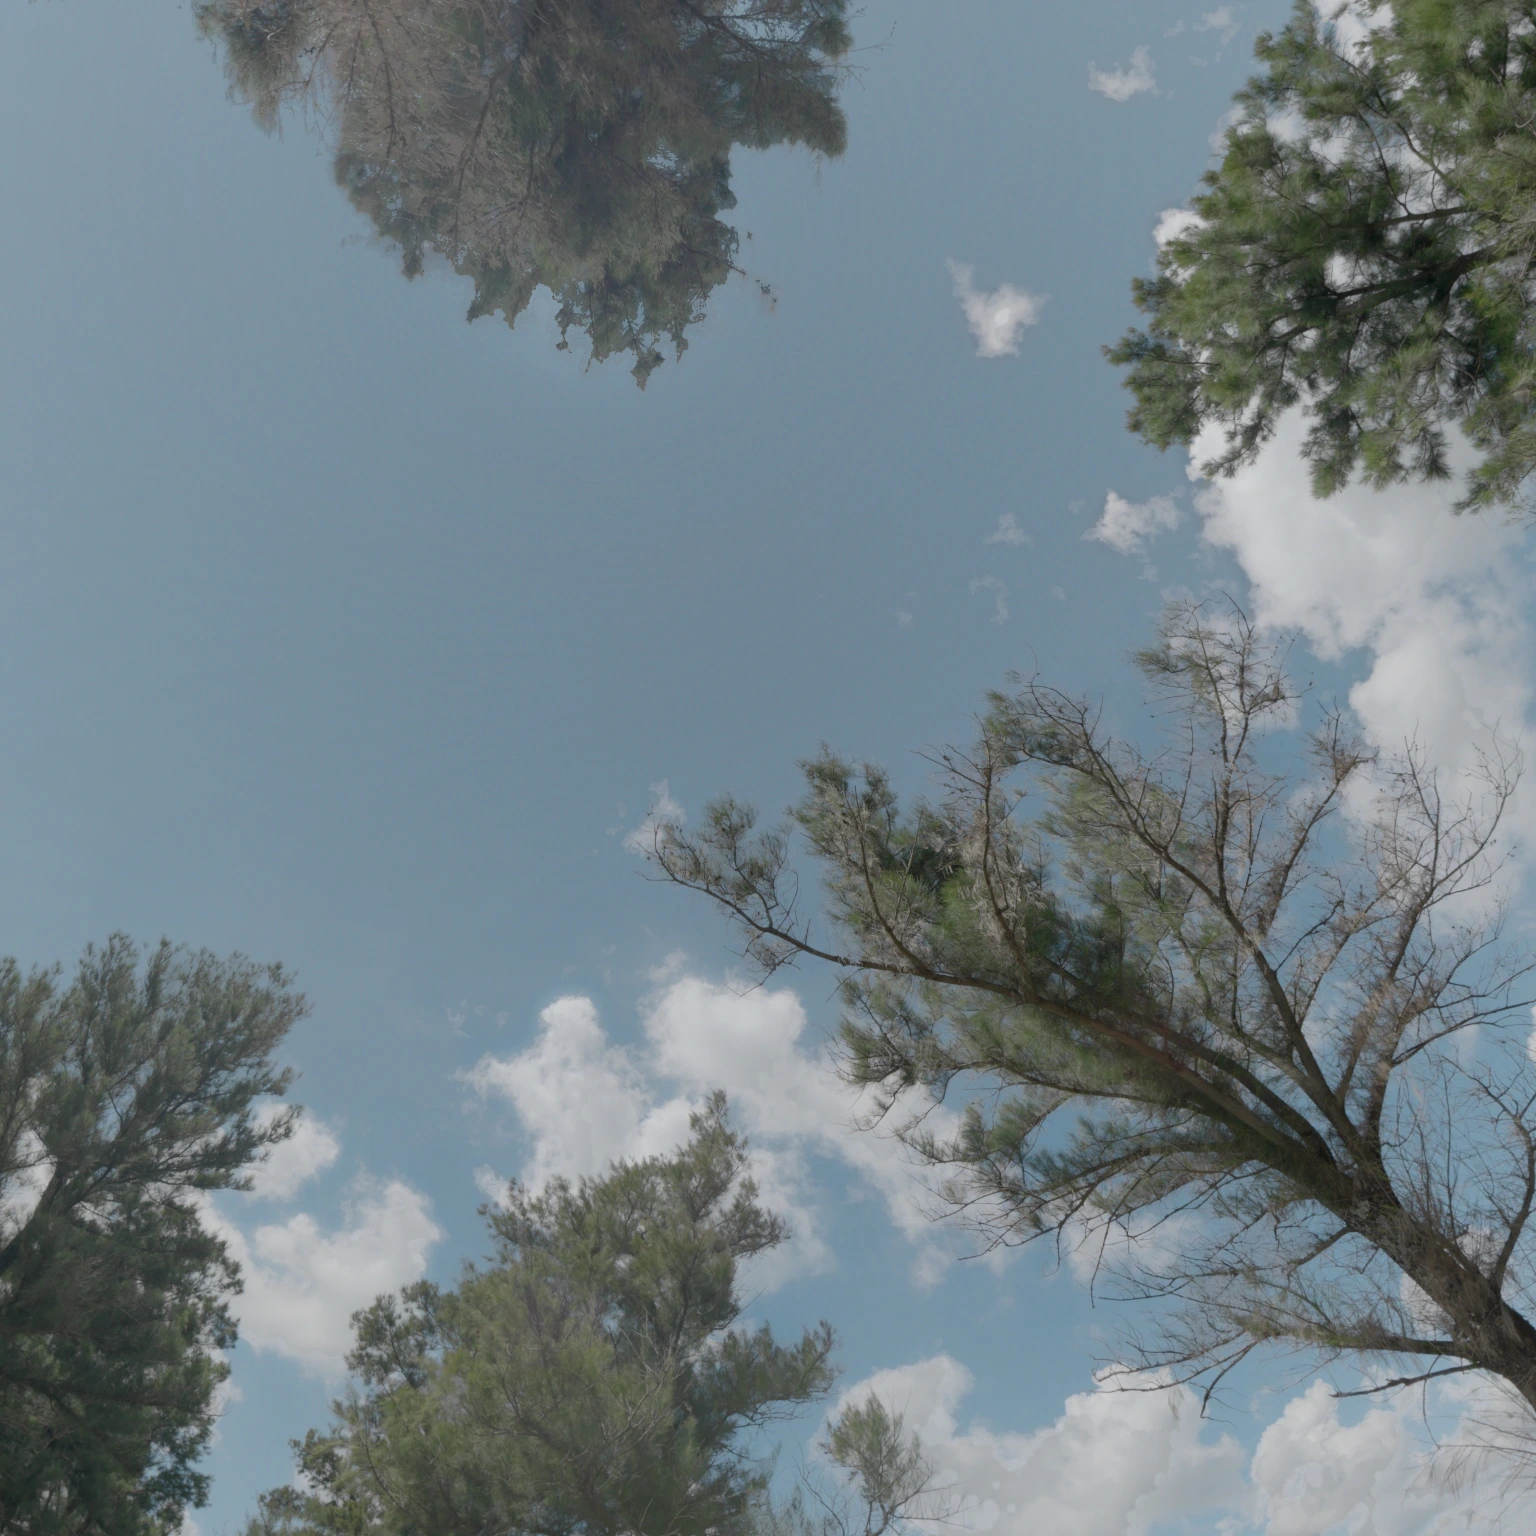
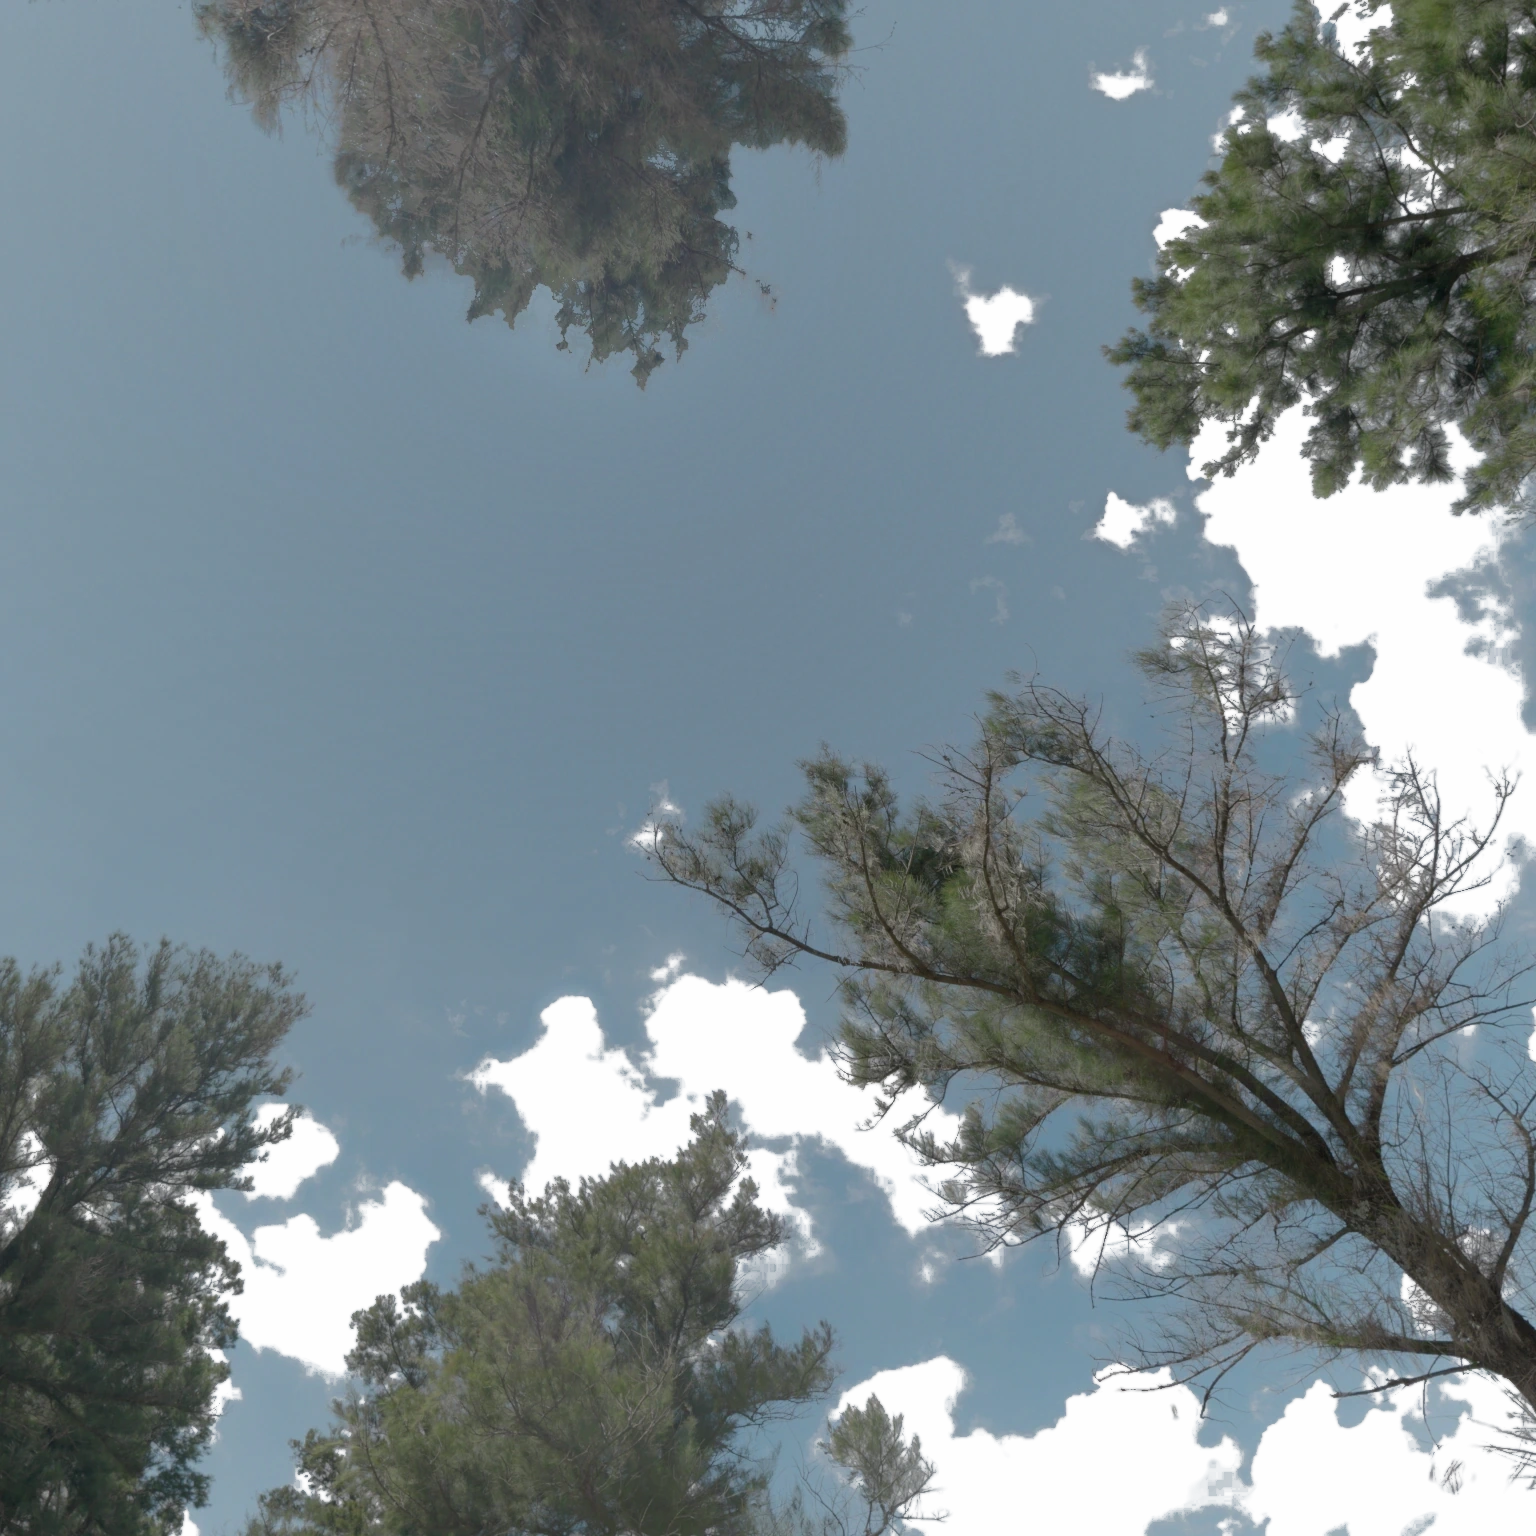
Lab: climb overexpose round 3
Claude-Session: https://claude.ai/code/session_01RqENhngNCzDFmJWDZueXGV

diff --git a/src/app/lab/overexpose/overexposeEngine.js b/src/app/lab/overexpose/overexposeEngine.js
@@ -53,6 +53,24 @@ export const FILM = {
   skyHiKeep: 0.5, // share of the highlight desaturation the sky is spared
   skyHiHue: 1.5, // extra blue compensation on lifted sky
   skyCap: 0.05, // how far under the paper white the sky's blue stays
+  // Holding the sky back. Cumulus are several times brighter than the blue
+  // around them, but once both ride the paper's shoulder they print at the
+  // same height (the sky's blue at the cap, ~236, the clouds 230-238) and part
+  // only by being less blue: milky paper cut-outs on a flat powder wash. So, as
+  // a printer burns in a sky, everything but the cloud is held back before the
+  // negative by skyHold of every stop of overexposure (about -0.9 EV at +1.67),
+  // keyed on the bake's cloud mask (scene.webp's alpha, relight.py), so a
+  // cloud's blue-lit underside is not mistaken for sky and a crown's edge is
+  // held with the sky behind it, never left as a pale outline. The dark
+  // needles take skyHoldNeedle of it. The scan's extra blue depth eases off on the held sky
+  // (to skyHoldDepth by skyHoldFull), or it would pour the held light straight
+  // back into the blue channel and pin it at the cap again. So the sky's
+  // brightest channel stays near 200-215, still deepening towards the zenith,
+  // while the clouds keep climbing the shoulder above it. 0 EV is untouched.
+  skyHold: 0.55,
+  skyHoldDepth: 1.1,
+  skyHoldNeedle: 0.35, // share of the hold the dark needles take, so the shadows still open up
+  skyHoldFull: 1.67,
 
   hiWarm: 0.025,
   bloom: 0.08,
@@ -71,8 +89,8 @@ precision highp float;
 uniform sampler2D uLog; uniform vec2 uSize;
 out vec4 o;
 void main(){
-  vec3 c = texelFetch(uLog, ivec2(gl_FragCoord.xy), 0).rgb;
-  o = vec4(exp2(c * ${(HI - LO).toFixed(4)} + ${LO.toFixed(4)}), 1.0);
+  vec4 c = texelFetch(uLog, ivec2(gl_FragCoord.xy), 0);
+  o = vec4(exp2(c.rgb * ${(HI - LO).toFixed(4)} + ${LO.toFixed(4)}), c.a); // alpha: 1 - cloud share
 }`;
 
 const FS = `#version 300 es
@@ -86,7 +104,7 @@ uniform vec3 uGamma; uniform vec3 uShoulder; uniform float uToe; uniform float u
 uniform vec3 uGref;         // negative density of the printer-light grey
 uniform vec3 uPk; uniform vec3 uPx0; uniform vec3 uDmin; uniform vec3 uDmax;
 uniform float uSat; uniform float uBlueSat; uniform vec3 uBlueHue; uniform float uHiDesat; uniform float uHiWarm;
-uniform vec2 uSkyQ; uniform float uSkyHiKeep; uniform float uSkyHiHue; uniform float uSkyCap;
+uniform vec2 uSkyQ; uniform float uHold; uniform float uHoldNeedle; uniform float uHoldDepth; uniform float uSkyHiKeep; uniform float uSkyHiHue; uniform float uSkyCap;
 uniform float uBloom; uniform float uHal; uniform vec3 uHalColor;
 uniform float uGrain; uniform float uSeed; uniform float uGrainPx;
 out vec4 o;
@@ -110,8 +128,9 @@ vec3 srgb(vec3 c){ c = clamp(c, 0.0, 1.0); return mix(c * 12.92, 1.055 * pow(c, 
 void main(){
   vec2 p = (gl_FragCoord.xy - uRect.xy) / uRect.zw;
   vec2 uv = vec2(p.x, 1.0 - p.y); // textures are uploaded top row first
-  vec3 L = texture(uScene, uv).rgb;
-  if (uLogIn > 0.5) L = dec(L);
+  vec4 sc = texture(uScene, uv);
+  vec3 L = uLogIn > 0.5 ? dec(sc.rgb) : sc.rgb;
+  float Ys = dot(L, LUMA);
   float hx = clamp(uv.x, 0.002, 0.998) * 0.5;
   vec3 D = dec(texture(uOptics, vec2(hx, uv.y)).rgb);
   float Yb = dec(texture(uOptics, vec2(hx + 0.5, uv.y)).rgb).g;
@@ -121,6 +140,11 @@ void main(){
   // Halation: light bounced off the base comes back through the red layer,
   // landing just outside bright areas (a ring, not a fill).
   L += uHalColor * max(Yb - dot(L, LUMA), 0.0) * uHal;
+  // The printer holds all but the cloud back (after the optics, so the hold does not
+  // read as a dark gap for the halation to fill).
+  float open = clamp((sc.a * 255.0 - 3.0) / 252.0, 0.0, 1.0); // 1 - the bake's cloud share
+  open *= mix(uHoldNeedle, 1.0, smoothstep(0.03, 0.1, Ys));
+  L *= exp2(-uHold * open);
 
   // Negative: each layer on its own H&D curve.
   vec3 H = XT * L * uExp;
@@ -140,7 +164,7 @@ void main(){
   c *= 1.0 + (uBlueHue - 1.0) * blue * blue * (1.0 + uSkyHiHue * hi0 * sky);
   float y = dot(c, LUMA);
   float hi = clamp((y - 0.45) / 0.4, 0.0, 1.0);
-  float s = uSat * (1.0 - uHiDesat * hi * (1.0 - uSkyHiKeep * sky)) * (1.0 + (uBlueSat - 1.0) * blue);
+  float s = uSat * (1.0 - uHiDesat * hi * (1.0 - uSkyHiKeep * sky)) * (1.0 + (mix(uBlueSat, uHoldDepth, open) - 1.0) * blue);
   vec3 r = max(c, 1e-5) / max(y, 1e-5);
   c = y * pow(r, vec3(s));
   c *= y / max(dot(c, LUMA), 1e-6);
@@ -431,6 +455,9 @@ export async function createOverexpose(host, { embedded = false } = {}) {
     gl.uniform1f(u.uSkyHiKeep, F.skyHiKeep);
     gl.uniform1f(u.uSkyHiHue, F.skyHiHue);
     gl.uniform1f(u.uSkyCap, F.skyCap);
+    gl.uniform1f(u.uHold, F.skyHold * Math.max(e, 0));
+    gl.uniform1f(u.uHoldNeedle, F.skyHoldNeedle);
+    gl.uniform1f(u.uHoldDepth, F.blueDepth + (F.skyHoldDepth - F.blueDepth) * clamp(e / F.skyHoldFull, 0, 1));
     gl.uniform1f(u.uBloom, F.bloom);
     gl.uniform1f(u.uHal, F.halation);
     gl.uniform3fv(u.uHalColor, F.halationColor);

diff --git a/tools/depth/bakes/overexpose/relight.py b/tools/depth/bakes/overexpose/relight.py
@@ -1,0 +1,132 @@
+# Relight the cumulus.
+#
+# After deepen.py the clouds were flat: one white mass each, separated from the
+# sky only by being less blue. Real cumulus seen from below are lit from above:
+# their sunlit tops roll off warm, and the sides that face the observer's
+# horizon (their undersides, which in this worm's-eye frame are the sides
+# facing the frame's edge, away from the zenith) are lit only by the blue sky
+# around them.
+#
+# Here each pixel's cloud share is keyed from the scene itself (neutral, i.e.
+# low blue-over-red, and bright: needles are neutral but dark, sky is bright
+# but blue). The key is blurred to the scale of a cloud's puffs and of whole
+# banks, and its directional derivative along the "down" direction (away from
+# the zenith, the gradient of falling elevation) says which side of each blob a
+# pixel sits on:
+#   - the down-facing side is multiplied towards skylight blue (UNDER, #b8cde6
+#     as a colour, i.e. its linear value), the cloud's own detail and the
+#     photograph's grain riding along as a ratio;
+#   - the up-facing side (the tops) gets a slight warm lift, TOP_WARM (+5% red,
+#     +1.5% green: +3% red alone printed one code warmer on the shoulder).
+# The thick interior of a big bank also sinks a little towards UNDER, as a
+# cloud's base is shaded by the cloud above it.
+#
+# The same cloud key ships as scene.webp's alpha (3 + 252 x (1 - share) in 64
+# steps, so no pixel is ever fully transparent and lossy WebP keeps every colour): the piece holds
+# everything that is not cloud back as it overexposes (skyHold in the engine),
+# so the clouds climb the paper's shoulder above the sky instead of level with it.
+#
+# Pipeline (re-grades the shipped bake in place, like deepen.py --shipped; pass
+# copies of the un-relit files, never the outputs). It runs last: deepen.py and
+# bake_wormseye.py write RGB only and would drop the key.
+#             python3 relight.py <scene.webp> <optics.png> [preview.png]
+import sys, os; sys.path.insert(0, os.path.dirname(os.path.abspath(__file__)))
+import numpy as np
+from PIL import Image
+from scipy import ndimage as ndi
+import bake_wormseye as bw
+import deepen
+
+LUMA = np.array([0.2126, 0.7152, 0.0722])
+UNDER = (np.array([0xb8, 0xcd, 0xe6]) / 255.0) ** 2.2   # skylight on the shaded underside, linear
+UNDER_MAX = 1.0         # share of the way to UNDER at the most shaded edge
+BASE_SINK = 0.9         # share towards UNDER where the bank shades itself from the sun
+TOP_WARM = np.array([0.05, 0.015, 0.0])   # warm lift on the sunlit tops
+Q_CLOUD = (1.15, 0.55)  # log2 blue/red: sky above the first, cloud below the second
+Y_CLOUD = (-2.4, -1.4)  # log2 luminance: needles below the first, cloud above the second
+SCALES = ((10.0, 0.45), (28.0, 0.55))   # (blur px, weight) for puffs and banks
+EDGE_GAIN = 6.0         # how steep a blurred edge reads as fully facing one way
+MARCH_BLUR, MARCH_STEP, MARCH_N, MARCH_DEPTH = 6.0, 4.0, 40, 60.0   # px; Beer depth in px of full cloud
+FILL_PX = 4.0            # px: a pixel whose seen surroundings at this blur are cloud is cloud
+SUN_KEEP = 0.07         # frame radius around the hidden sun left alone (its warm rim is not cloud)
+
+def smooth(a, lo, hi):
+    t = np.clip((a - lo) / (hi - lo), 0, 1)
+    return t * t * (3 - 2 * t)
+
+def cloud_key(pix):
+    Y = pix @ LUMA
+    q = np.log2(np.maximum(pix[..., 2], 1e-6) / np.maximum(pix[..., 0], 1e-6))
+    m = smooth(q, Q_CLOUD[0], Q_CLOUD[1]) * smooth(np.log2(np.maximum(Y, 1e-6)), *Y_CLOUD)
+    # drop lone bright needles: cloud is a region, not a speck
+    m = np.minimum(m, ndi.grey_closing(ndi.gaussian_filter(m, 1.0), size=3))
+    n = pix.shape[0]
+    yy, xx = (np.mgrid[0:n, 0:n] + 0.5) / n
+    m *= smooth(np.hypot(xx - deepen.U, yy - deepen.V), SUN_KEEP, SUN_KEEP * 1.6)
+    return m
+
+def relight(pix):
+    n = pix.shape[0]
+    elev, _ = deepen.geometry()
+    gy, gx = np.gradient(elev)
+    nrm = np.maximum(np.hypot(gx, gy), 1e-9)
+    dx, dy = -gx / nrm, -gy / nrm            # "down": towards the frame's edge, away from the zenith
+    m = cloud_key(pix)
+    # The needles in front are not sky: behind them the cloud is unknown, so the
+    # blurs read only cloud and open sky, and a crown cutting across a bank
+    # makes no false edge.
+    Y = pix @ LUMA
+    seen = smooth(np.log2(np.maximum(Y, 1e-6)), -4.2, -3.3)
+    # Inside a bank the key dips in blotches where a grey-blue patch of the
+    # photograph (or its old compression blocks) reads half sky; fill the dips
+    # from the cloud around them, but not the dark needles themselves.
+    near = ndi.gaussian_filter(m * seen, FILL_PX) / np.maximum(ndi.gaussian_filter(seen, FILL_PX), 1e-3)
+    m = np.maximum(m, smooth(near, 0.6, 0.9) * seen)
+    def mb(s):
+        return ndi.gaussian_filter(m * seen, s) / np.maximum(ndi.gaussian_filter(seen, s), 1e-3)
+    side = np.zeros_like(m)
+    for s, w in SCALES:
+        b = mb(s)
+        by, bx = np.gradient(b)
+        # derivative along "down", in mask units per blur radius: -1 on a sharp down-facing edge
+        side += w * np.clip((bx * dx + by * dy) * s * EDGE_GAIN, -1, 1)
+    # Cloud between a pixel and the sun (hidden behind the top crown) shades it:
+    # march the blurred key towards the sun and take Beer's law on what it meets.
+    b = mb(MARCH_BLUR)
+    yy, xx = np.mgrid[0:n, 0:n].astype(np.float64)
+    sx, sy = deepen.U * n - xx, deepen.V * n - yy
+    sl = np.maximum(np.hypot(sx, sy), 1e-6); sx /= sl; sy /= sl
+    tau = np.zeros_like(m)
+    for i in range(1, MARCH_N + 1):
+        t = i * MARCH_STEP
+        tau += ndi.map_coordinates(b, [yy + sy * t, xx + sx * t], order=1, mode='nearest') * MARCH_STEP
+    shade = 1 - np.exp(-tau / MARCH_DEPTH)
+    under = np.clip(-side, 0, 1) ** 0.8
+    under = 1 - (1 - under * UNDER_MAX) * (1 - BASE_SINK * shade)
+    top = np.clip(side, 0, 1) ** 0.8 * (1 - shade)
+    mul = 1 + (UNDER - 1) * under[..., None]
+    mul = mul * (1 + TOP_WARM * top[..., None])
+    out = pix * (1 + (mul - 1) * m[..., None])
+    return out, m, under, top
+
+if __name__ == '__main__':
+    s8 = np.asarray(Image.open(sys.argv[1]).convert('RGB'))
+    g8 = np.asarray(Image.open(sys.argv[2]).convert('RGB'))
+    pix = bw.dec_log(s8)
+    out, m, under, top = relight(pix)
+    if len(sys.argv) > 3:
+        viz = np.stack([m * top, m, m * under], -1)
+        Image.fromarray((np.clip(viz, 0, 1) * 255).astype(np.uint8)).save(sys.argv[3])
+        print('cloud share %.3f; under mean %.3f on cloud' % (m.mean(), (under * m).sum() / m.sum()))
+        sys.exit(0)
+    rng = np.random.default_rng(11)
+    changed = np.abs(np.log2(out / pix)).max(-1) > 1e-3
+    s8n = np.where(changed[..., None], bw.enc_log(out, rng), s8)
+    d_opt = bw.optics(out - pix)
+    glow = np.maximum(bw.dec_log(g8) + d_opt, 2.0 ** bw.LO)
+    g8n = np.where((np.abs(d_opt) > 1e-5).any(-1, keepdims=True), bw.enc_log(glow, rng), g8)
+    alpha = (3 + 4 * np.round(63 * (1 - np.clip(m, 0, 1)))).astype(np.uint8)   # 64 steps: smaller, and finer than the hold can show
+    Image.fromarray(np.dstack([s8n.astype(np.uint8), alpha]), 'RGBA').save(
+        os.path.join(bw.OUT, 'scene.webp'), 'WEBP', quality=94, alpha_quality=100, method=6, exact=True)
+    bw.save_optics(g8n.astype(np.uint8))
+    print('changed px %.3f; wrote' % float(changed.mean()), bw.OUT)

diff --git a/tools/depth/bakes/overexpose/bake_wormseye.py b/tools/depth/bakes/overexpose/bake_wormseye.py
@@ -1,6 +1,7 @@
 # Worm's-eye bake (current):
 #   python3 desun.py 6 26 && python3 resun.py 0.3906 0.1706 \
 #     && python3 deepen.py <OE_WORK>/crop1536r.npy && python3 bake_wormseye.py <OE_WORK>/crop1536d.npy
+#     && python3 relight.py <copy of scene.webp> <copy of optics.png>   (cumulus relit, cloud key -> alpha)
 # (OE_WORK holds the 8k caches). bake.py is the earlier rectilinear bake, kept for reference.
 import numpy as np, io, os, sys
 from PIL import Image
